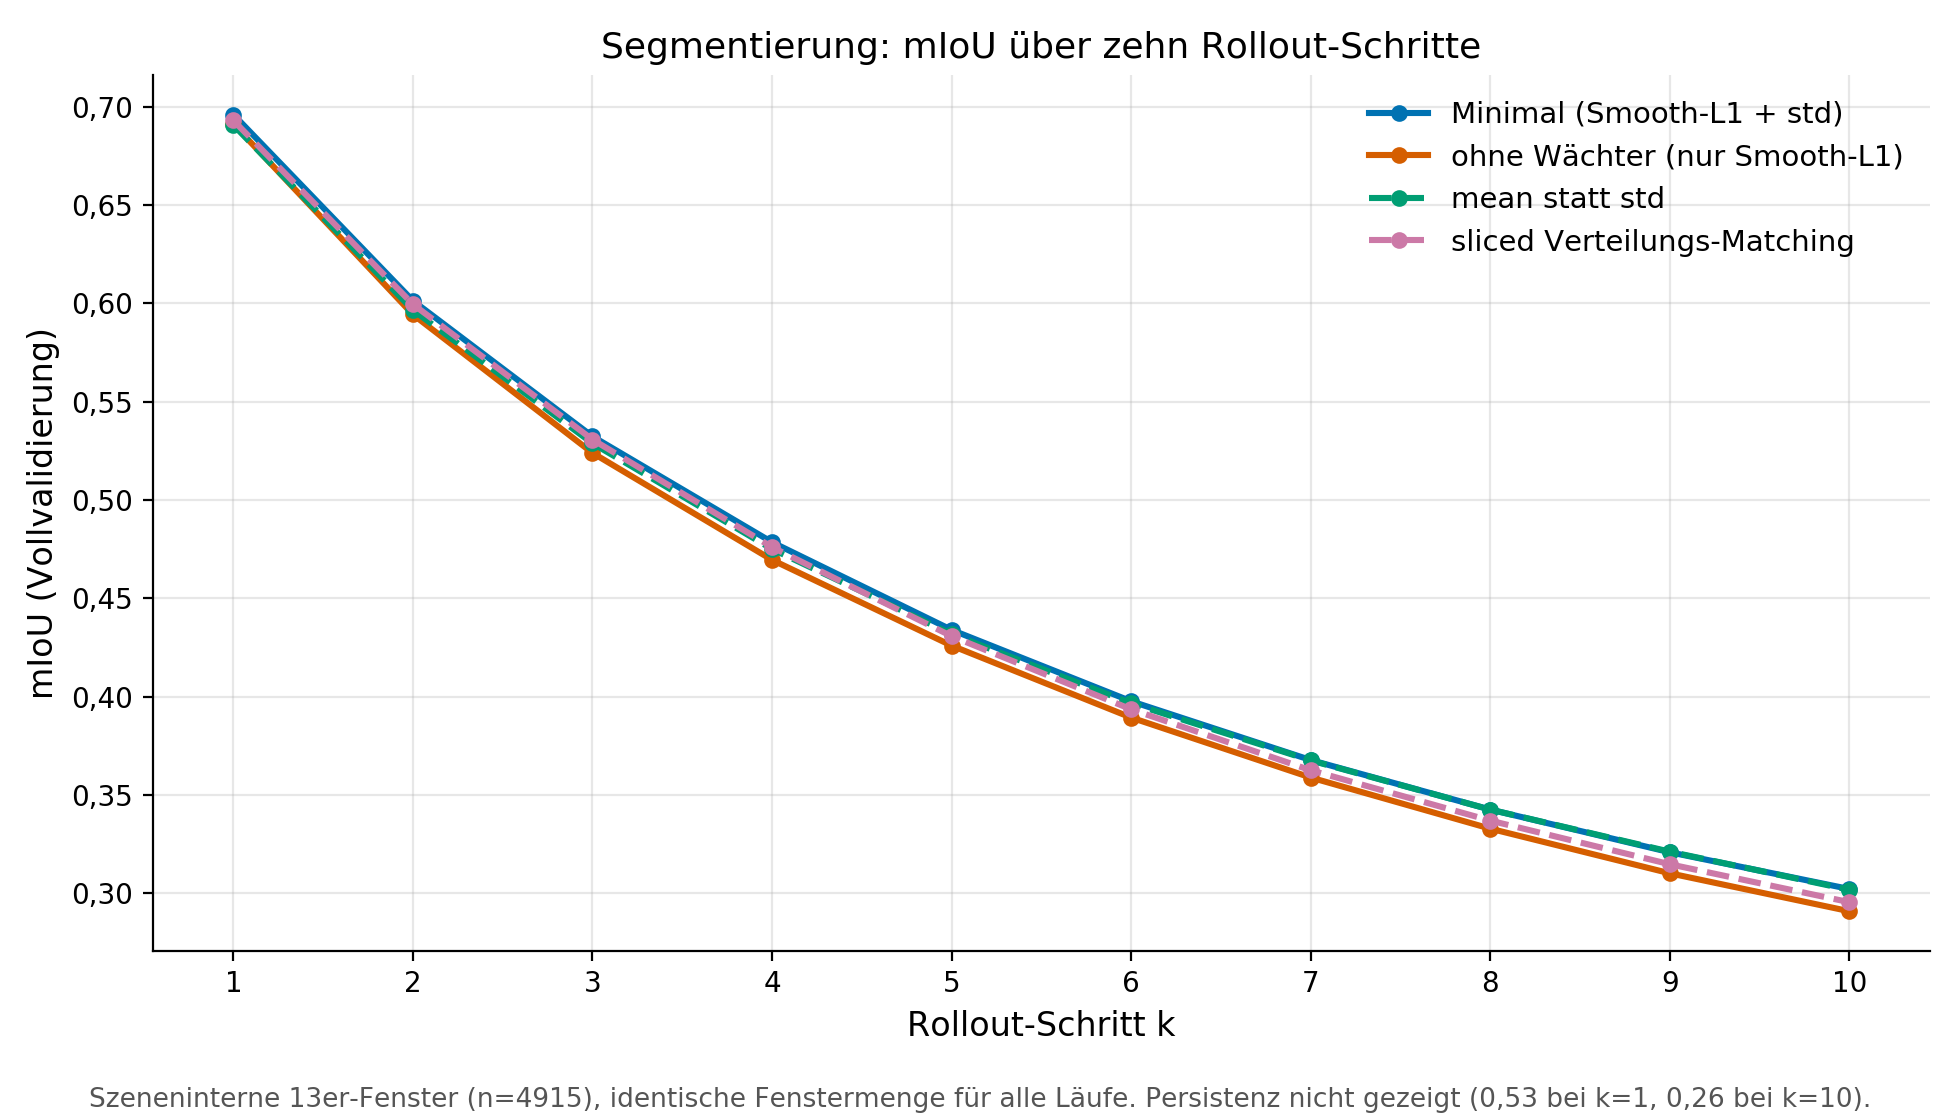
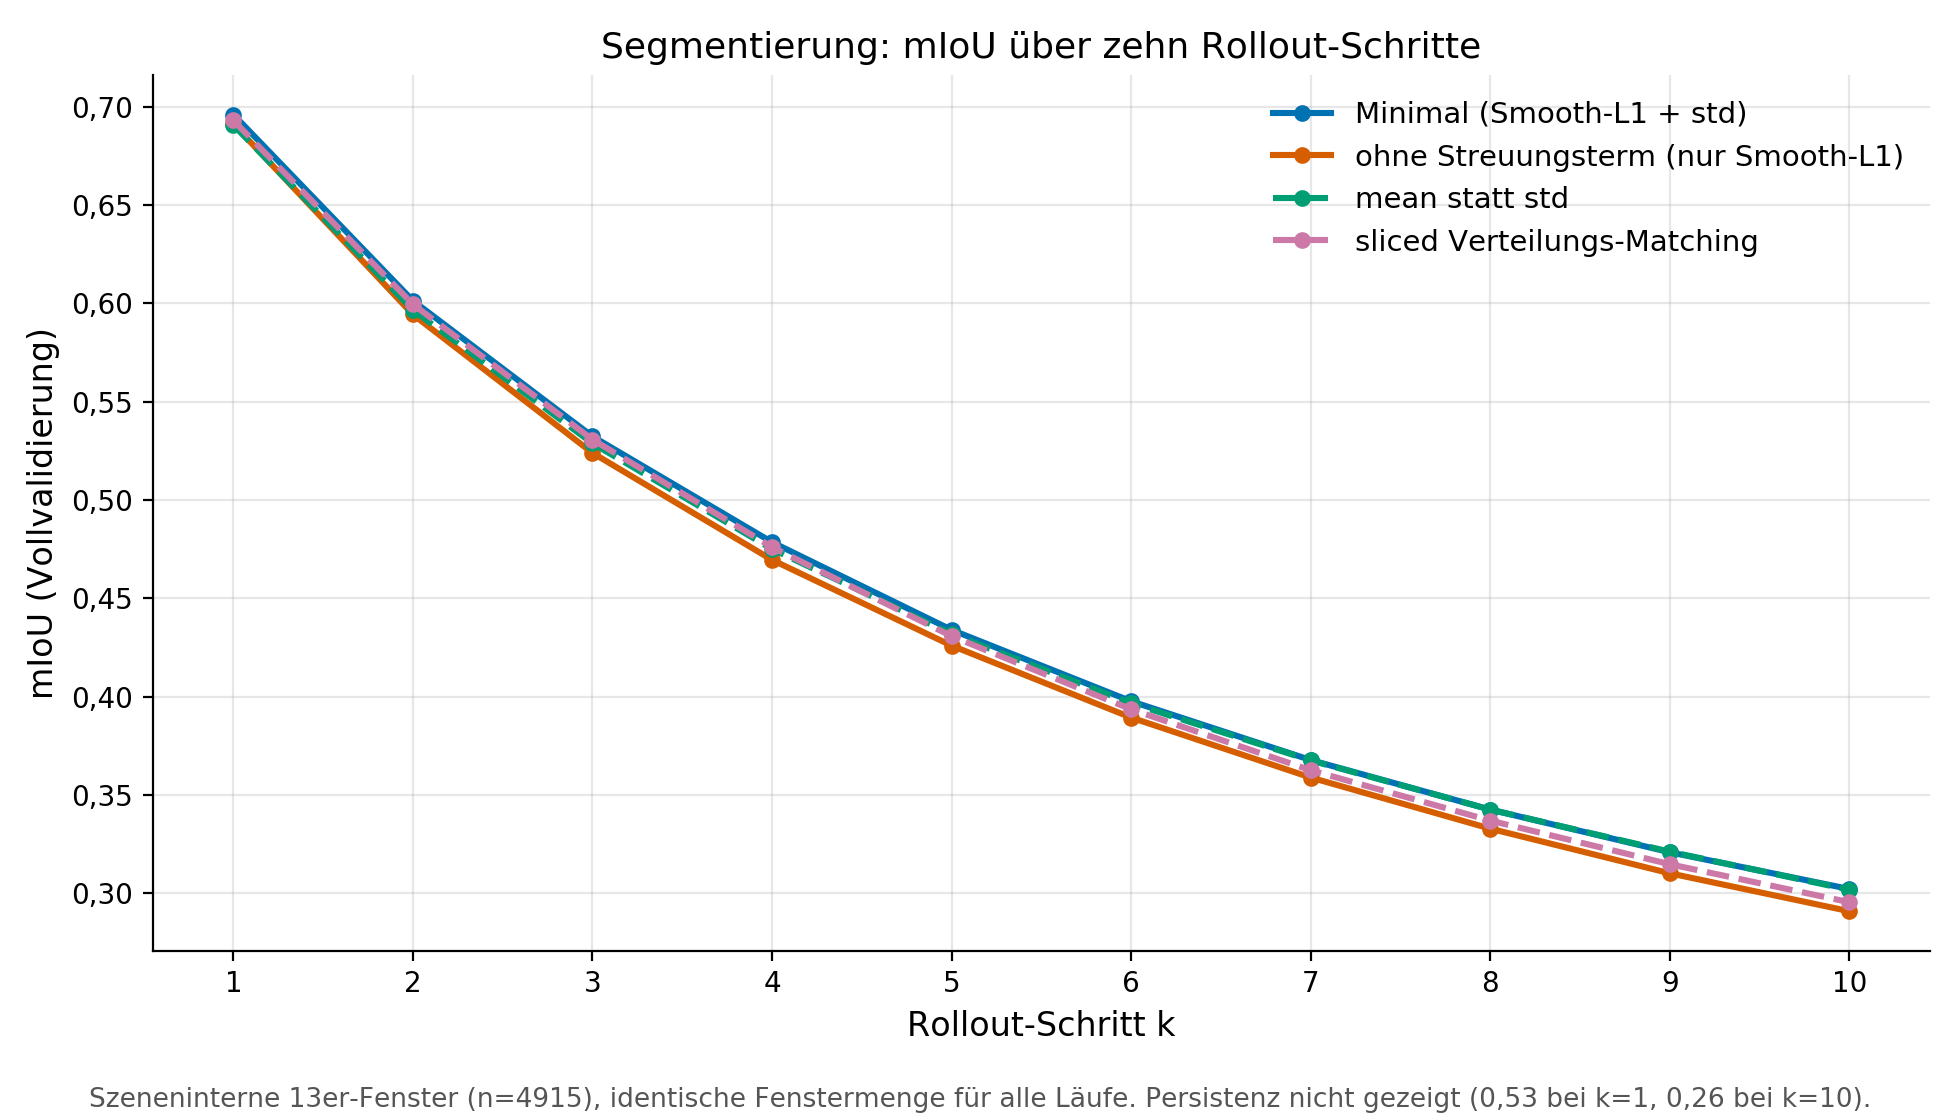
README-Ablationsteil nuechterner formuliert, Grafiken angepasst

Changed region(s): [[0.6536, 0.0938, 0.9337, 0.25]]

diff --git a/README.md b/README.md
@@ -16,17 +16,17 @@ Universität der Bundeswehr München.
 | Detektion (mAP) | 0,1696 | **0,3438** | 0,6858 |
 
 - Zielfunktion: Für die Segmentierung reichen Smooth-L1 und der
-  Streuungsterm aus. In der Detektion verbessern gezielte Zusatzterme
-  die mAP. Details stehen im Abschnitt "Zielfunktion" am Ende dieses
-  Dokuments.
+  Streuungsterm aus. In der Detektion verbessern Zusatzterme die mAP.
+  Details stehen im Abschnitt "Ablation der Zielfunktion" am Ende
+  dieses Dokuments.
 - Rollout: Das Weltmodell liegt bei jedem Schritt bis k=10 über der
   Persistenz.
 - Kopfadaptation: Auf Vorhersagen nachtrainierte Wahrnehmungsköpfe
   verbessern die Segmentierung um 0,011 mIoU und die Detektion um
-  0,089 mAP. Die Werte wurden über mehrere Trainingsläufe bestimmt.
-- Generative Varianten: CVAE und Flow Matching erzeugen unterschiedliche
-  Stichproben. Die Punktmetrik liegt dabei nicht über dem
-  deterministischen Modell.
+  0,089 mAP.
+- Generative Varianten: CVAE und Flow Matching erzeugen
+  unterschiedliche Stichproben, erreichen in mIoU bzw. mAP aber keine
+  besseren Werte als das deterministische Modell.
 - Laufzeit: Ein Vorhersageschritt benötigt auf einer TITAN RTX etwa
   4,4 ms für die Segmentierung und 11,5 ms für die Detektion.
   Der höchste gemessene PyTorch-Speicherbedarf liegt bei 266 MB.
@@ -117,58 +117,65 @@ Beispiel von Abbildung 5.8 (mIoU je Klasse):
 python3 scripts_render/render_beispiel_klassen.py
 ```
 
-## Zielfunktion: Welche Terme tragen
+## Ablation der Zielfunktion
 
-Die Loss-Ablationen wurden nach Abgabe der Arbeit auf einheitlichem
-Protokoll vervollständigt (Vollvalidierung, ein Trainingsrezept, nur der
-jeweils genannte Term geändert). Referenz ist in beiden Grafiken die
-Minimal-Konfiguration aus Smooth-L1 und Streuungsterm.
+Die folgenden Ablationen wurden nach Abgabe der Masterarbeit mit einem
+einheitlichen Versuchsprotokoll ergänzt (Vollvalidierung, ein
+Trainingsrezept, je Lauf nur der genannte Term geändert). Referenz ist
+in beiden Grafiken die Minimal-Konfiguration aus Smooth-L1 und
+Streuungsterm.
 
-Segmentierung: Zwei Terme genügen. Kein Zusatzterm verbessert die
-Minimal-Konfiguration, ssim schadet sogar signifikant. Smooth-L1 trägt
-die gesamte Vorhersageleistung. Ohne ihn fällt das Modell auf das
-Persistenz-Niveau zurück, weil das Gate dann nur noch kopiert.
+Verwendete Terme: Smooth-L1 (elementweiser Rekonstruktionsfehler),
+std (gleicht die Standardabweichung je Kanal an das reale Latent an),
+mean (Gegenstück für den Mittelwert), cos (Kosinus-Ähnlichkeit der
+Kanalvektoren je Zelle), grad (Fehler auf Differenzen benachbarter
+Zellen), ssim (strukturelle Ähnlichkeit), energy (gewichtet Zellen mit
+hoher Aktivierungsenergie des realen Latents stärker), Peak (gleicht
+lokale Energiemaxima nach Max-Pooling an), sliced (gleicht die
+Werteverteilung über zufällige 1D-Projektionen an). Die
+6-Term-Konfiguration ist die in der Thesis verwendete Kombination.
+
+Segmentierung: Kein Zusatzterm verbessert die Minimal-Konfiguration,
+ssim verschlechtert die mIoU über das Seed-Band hinaus. Ohne Smooth-L1
+fällt die mIoU ungefähr auf das Niveau der Persistenz. In diesem Fall
+wird das Gate überwiegend in Richtung der letzten beobachteten
+Repräsentation verschoben.
 
 ![Seg-Ablationen](img/loss_ablation_seg.png)
 
-Der Streuungsterm gehört trotzdem dazu. Für die Punktmetrik ist er
-nahezu neutral, sein Wert zeigt sich im autoregressiven Rollout. Ohne
-ihn fällt das Streuungsverhältnis durch Regression zur Mitte auf ein
-Plateau um 0,77, mit ihm bleibt es über den gesamten Horizont nahe 1,0.
-Ein mean-Term wirkt dabei nicht als Wächter, seine Kurve liegt auf dem
-Niveau ohne Wächter. Die Abbildung zeigt die mIoU über zehn
-Rollout-Schritte: Der Wächter kostet nichts, alle Varianten liegen in
-der Punktmetrik gleichauf, und das Modell bleibt bei jedem Schritt über
-der Persistenz. Die Arbeitsteilung lautet also: Smooth-L1 liefert die
-Struktur, der Streuungsterm sichert die Verteilung.
+Der Streuungsterm verändert die mIoU kaum, wirkt sich aber im
+autoregressiven Rollout auf die Statistik der Vorhersagen aus. Ohne
+diesen Term fällt das Streuungsverhältnis auf etwa 0,77. Mit
+Streuungsterm bleibt es über den untersuchten Horizont nahe 1,0. Der
+Mittelwert-Term zeigt diesen Effekt nicht, das sliced
+Verteilungs-Matching kalibriert etwas schlechter. In der mIoU liegen
+alle vier Varianten innerhalb des Seed-Bands (Abbildung); das Modell
+bleibt bei jedem Schritt über der Persistenz.
 
-![Rollout-Wächter](img/rollout_waechter_seg.png)
+![Rollout Segmentierung](img/rollout_waechter_seg.png)
 
-Detektion: Hier zahlen sich gezielte Terme aus. Anders als die
-wahrnehmungslimitierte Segmentierung reagiert der Det-Strang messbar
-auf die Zielfunktion. Der cos-Term erhält die Richtung des
-Kanalvektors je Zelle, die Energie-Gewichtung wertet die wenigen
-starken Objektzellen auf, die ein gemittelter Loss übersieht. Beide
-heben die mAP signifikant und ergeben kombiniert den besten
-Betriebspunkt des Projekts: Smooth-L1 + std + energy(4) + cos(0,1)
-mit mAP 0,3752 (Mittel aus zwei Seeds, siehe
-`configs/config_det_beispiel.yaml`). ssim schadet in beiden Strängen.
+Bei der Detektion beeinflusst die Wahl der Zielfunktion die mAP
+stärker. Der Kosinusterm und die Energiegewichtung verbessern die
+Ergebnisse in den durchgeführten Läufen deutlich über den Rauschboden
+hinaus. Die beste getestete Konfiguration kombiniert Smooth-L1,
+Streuungsterm, Energiegewichtung (Faktor 4) und Kosinusterm (Gewicht
+0,1) und erreicht 0,3752 mAP im Mittel über zwei Seeds
+(`configs/config_det_beispiel.yaml`). ssim und der Peak-Term
+verschlechtern die mAP.
 
 ![Det-Ablationen](img/loss_ablation_det.png)
 
-Auch bei der Detektion wirkt der Streuungsterm nur auf die Statistik,
-nicht auf die Punktmetrik. Es gilt dieselbe Rollenteilung wie im
-Seg-Rollout:
+Auch bei der Detektion verändert der Streuungsterm nur die Statistik
+der Vorhersagen, nicht die mAP:
 
-![Det-Wächter](img/waechter_det.png)
+![Det Streuungsverhältnis](img/waechter_det.png)
 
 Offene Punkte: Bewegungsbasierte Zellgewichte sind für die Detektion
 ungetestet, längere Rollout-Horizonte und Training mit mitlernendem
-Kopf sind die naheliegenden nächsten Schritte. Herleitung der Terme,
-Messprotokolle und alle Thesis-Ergebnisse stehen in
+Kopf wären die nächsten Schritte. Herleitung der Terme, Messprotokolle
+und alle Thesis-Ergebnisse stehen in
 [`Masterarbeit_VincentMann.pdf`](Masterarbeit_VincentMann.pdf),
-Kapitel 3.4 und 5.2. Die hier gezeigten Ablationen auf einer Basis
-ergänzen die Arbeit nachträglich.
+Kapitel 3.4 und 5.2.
 
 ## Dokumentation
 
